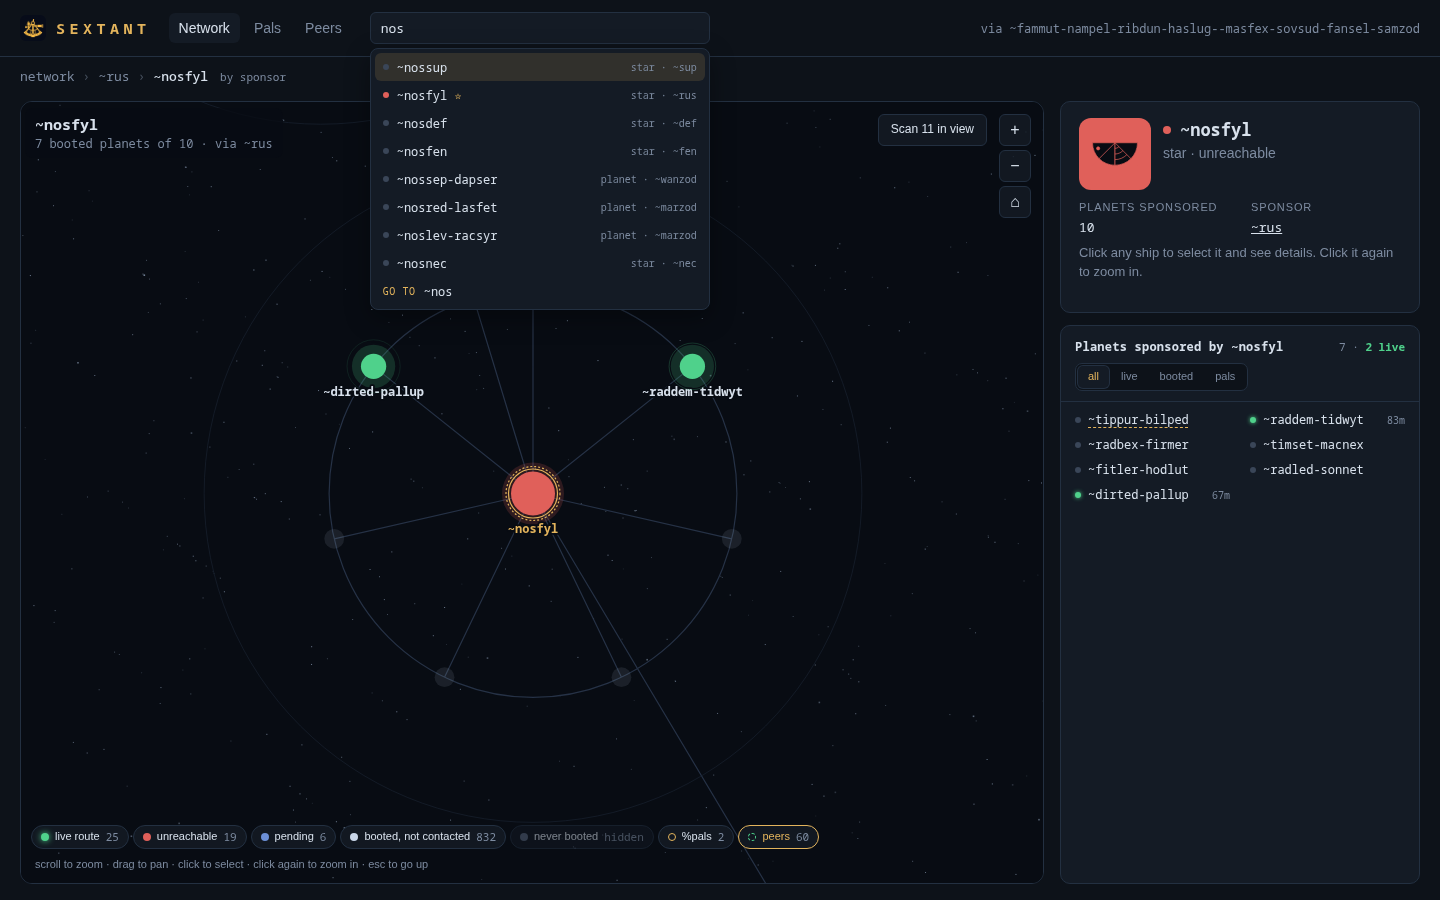
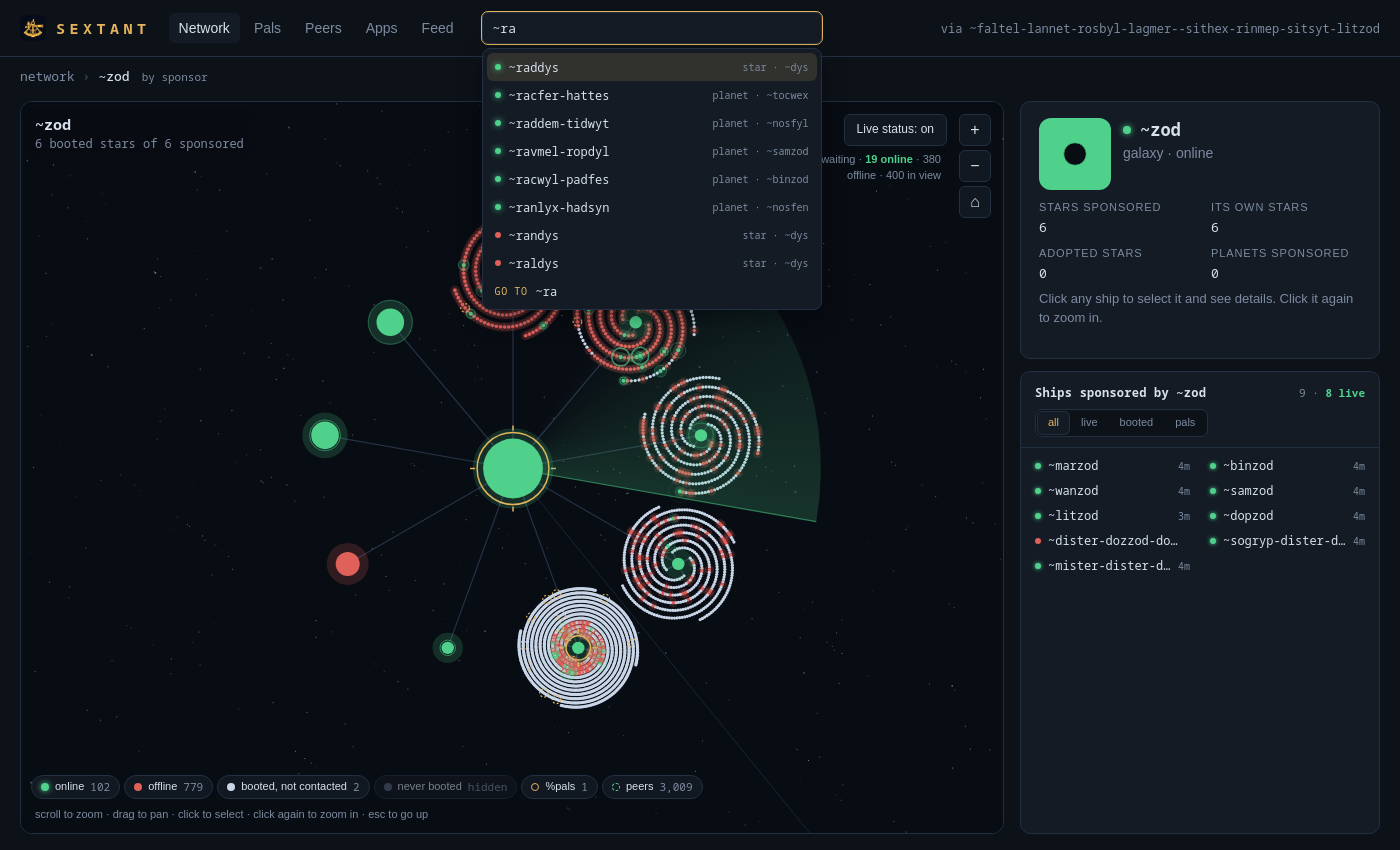
Sextant 1.1.0: README, screenshots, docket
Rewrites the README for live status, the radar, route tracer, Apps tab
and install gossip, moons, the Azimuth feed, owner view and watchlist,
with an updated API table and fresh screenshots. Includes fang-/suite's
MIT license for the vendored /lib/gossip. Docket 1.1.0.

diff --git a/README.md b/README.md
@@ -6,7 +6,8 @@
 
 <p align="center">
   A live map of the Urbit network for your ship.<br>
-  Every galaxy, star and planet, drawn under the ship that sponsors it <em>right now</em>.
+  Every galaxy, star, planet and known moon, drawn under the ship that sponsors it <em>right now</em>,<br>
+  with live status, route tracing, an Azimuth event feed, and the apps your pals use.
 </p>
 
 <p align="center">
@@ -20,36 +21,68 @@
 Sextant reads the Azimuth state your ship already keeps and draws the whole network as one zoomable chart:
 
 - **Galaxies** sit on a single Archimedean spiral, evenly spaced, with `~zod` at the centre.
-- **Zoom into a galaxy** to see the stars it currently sponsors. They wind into it on two, three or four spiral arms; a galaxy with only a few stars spreads them evenly on a circle.
+- **Zoom into a galaxy** to see the stars it currently sponsors, winding into it on two, three or four spiral arms. Their planets show up around them as you zoom, so you can see how busy each star's neighbourhood is.
 - **Zoom into a star** to see its planets, laid out the same way. Planets load from your ship only once you zoom close enough to see them.
-- **Ships are placed by sponsor, not by parent.** A star that escaped to another galaxy sits under its new sponsor and gets a dashed gold ring. `~rus`, for example, has adopted 25 stars from other galaxies.
-- **Colours are live** from your ship's own networking state: green is a live route, red is unreachable, blue is pending, white is booted but not contacted yet. Ships that were spawned but never booted are hidden by default (there's a toggle in the legend).
+- **Moons** your ship has talked to (including your own, which ping their planet) sit on spokes around their planet, star or galaxy.
+- **Ships are placed by sponsor, not by parent.** A star that escaped to another galaxy sits under its new sponsor and gets a dashed gold ring. **Pending escape requests** are drawn as dashed gold arcs to the sponsor they asked for.
+- **Names** stay off the map until you hover over a ship or select it.
 
 | A galaxy and the stars it sponsors | A star and its planets |
 |---|---|
 | ![~rus and its stars](docs/screenshots/galaxy.png) | ![~marzod and its planets](docs/screenshots/star.png) |
 
+### Live status
+
+Ames can't tell you who is online: it only learns about a ship when packets flow, and it marks any idle peer "dead" 30 seconds after the last one. So Sextant asks.
+
+- While the map is open, every booted ship on screen gets one small **remote-scry request** for the hash of its public `%kids` desk. Any answer means **online** (green); no answer within 20 seconds means **offline** (red), and the request is cancelled so nothing keeps retrying in ames.
+- A **radar sweep** turns over the galaxy or star in view while answers are pending, and each ship changes colour as the sweep line passes over it.
+- Each ship **keeps its last result** until the next check finishes, so a re-check never blanks the map.
+- It's polite about traffic: ships that answer are re-checked at most every 5 minutes; silent ones back off to 15 minutes, an hour, 6 hours, then once a day; and at most 50 requests are out at once. In the background only your pals, your watched ships and the galaxies are kept fresh. The **Live status** button on the map pauses it all.
+
 ### Ship details
 
 Click any ship to select it. Click it again to zoom in.
 
-- The ship's **sigil** sits on its status colour.
-- **Sponsor, parent, keys and escape requests**, plus owner and proxy addresses. Click an address to copy it, or use ↗ to open it on Etherscan.
-- **%pals:** see whether you're mutuals, whether they got your request, and add or remove them in one click.
-- **Check connection** runs a `%vitals` check, which tells you whether the ship is reachable and, if not, whether it's your side, theirs, or their sponsor's.
-- **Apps:** look up the desks a ship publishes (via `%treaty`, the same as searching it in Landscape) and install them from there.
+- Its **sigil** on its status colour, its sponsor, parent, keys and escape requests, and its owner and proxy addresses (copy, open on Etherscan, or **◎** to see everything that address controls).
+- **%pals:** whether you're mutuals, whether they got your request, and add or remove them in one click.
+- **☆ Watch:** get a Landscape notification when the ship stops answering, comes back, or changes on Azimuth. Watched ships are checked every 5 minutes and wear a small marker on the map.
+- **Trace route** (below).
+- **Check connection** runs a `%vitals` check for a full diagnosis.
+- **Apps:** the desks a ship publishes, via `%treaty`, with install buttons.
 
-| Selected ship | Apps it publishes |
+| Selected ship | Route trace |
 |---|---|
-| ![~raddem-tidwyt selected](docs/screenshots/ship.png) | ![apps published by ~paldev](docs/screenshots/apps.png) |
+| ![~raddem-tidwyt selected](docs/screenshots/ship.png) | ![a route traced to ~raddem-tidwyt](docs/screenshots/trace.png) |
 
-### Finding ships and who's online
+### Route tracer
 
-- **Search** suggests galaxies, stars, loaded planets, your pals and your peers as you type.
-- The **peers** layer keeps only the ships your ship has talked to, plus the galaxies and stars they live under.
-- **Live status.** Ames only updates what it knows about a ship when packets flow, and it marks any idle peer "dead" after 30 seconds of quiet, so its view can't say who is online. Sextant asks instead: while the map is open, every booted ship on screen (and, in the background, your pals and the galaxies) gets one small remote-scry request for the hash of its public `%kids` desk. Any answer means **online**; no answer within 20 seconds means **offline**, and the request is cancelled so nothing keeps retrying. Each ship keeps its last result until the next check finishes. Ships that answer are re-checked at most every 5 minutes; silent ones back off (15 minutes, then 1 hour, 6 hours, a day), since most are abandoned. At most 50 checks are out at once, and a radar sweep turns over the galaxy or star in view while they are. The **Live status** button on the map pauses it.
+**Trace route** follows the path a packet takes from you to a ship: up your sponsor chain to where it meets theirs, then down to them. It checks every hop at once and shows, for each one, whether it answered, its round trip, and whether your ship has a direct address for it, only reaches it through relays, or has no address at all (a galaxy with no DNS entry). The route is drawn on the map with a pulse running along the part that works, and the panel says where and why it breaks.
 
-![search and the peers layer](docs/screenshots/search.png)
+If a hop is silent but a ship behind it answered, that hop is up and has probably just never heard of your ship (common for brand-new comets). Sextant offers to **Say hi** to it, the same as `|hi`.
+
+### Apps on the network
+
+![the Apps tab](docs/screenshots/apps.png)
+
+The **Apps** tab lists every app your ship knows is published, from the publishers it follows through `%treaty`. Search them, filter by publisher, hide what you have, install with a click, or **add a publisher** by name to see what it offers.
+
+**Popular with your pals.** Like [`%hits`](https://github.com/iko-soy/hits), Sextant gossips installs: each app you installed *from a publisher* is one anonymous "hit", shared with your mutual pals who run Sextant and relayed one more hop to theirs (via [`/lib/gossip`](https://github.com/fang-/suite)). Each install carries a random id, so relayed copies count once and an uninstall takes its hit back. The Apps tab can then rank apps as **popular** (installs heard of nearby) or **trending** (each install counts half as much each day), and shows apps you only know about through pals. Desks you made yourself (`|new-desk`, or installed from a file) are never shared, and **share my installs** turns it off.
+
+### Azimuth feed and owners
+
+The **Feed** tab lists what `%azimuth` reports as it happens: breaches, first boots and key changes, escape requests and cancellations, completed escapes, transfers and moves to layer 2. New events also pop up on the map, and a completed escape glides the ship over to its new sponsor. The ships you watch are listed at the top.
+
+Click **◎** next to any address, or search for an `0x…` address, to see every point it owns or is a proxy for, and highlight them on the map.
+
+![the points one address controls](docs/screenshots/owner.png)
+
+### Finding ships
+
+- **Search** suggests galaxies, stars, loaded planets, your pals and your peers as you type, and accepts Ethereum addresses.
+- The **legend** filters the map by status, pals, or peers (the ships your ship has talked to, plus the galaxies and stars they live under).
+
+![search](docs/screenshots/search.png)
 
 ## Install
 
@@ -61,7 +94,7 @@ From your ship's dojo:
 
 Or search for `~nosfyl` in Landscape and install Sextant from there. Then open it from your Landscape home screen, or go to `/apps/sextant` on your ship.
 
-Sextant needs `%azimuth`, which every planet and star already runs. `%pals`, `%vitals` (part of Landscape) and `%treaty` are used if you have them.
+Sextant needs `%azimuth`, which every planet and star already runs. `%pals`, `%vitals`, `%treaty`, `%docket` and `%hark` (all part of a normal Landscape install) are used if you have them.
 
 ### Let others browse your map
 
@@ -71,23 +104,25 @@ By default only you (logged in) can see your Sextant. To let anyone view it read
 :sextant [%public &]
 ```
 
-Adding pals, connection checks, probes, app lookups and installs always need the owner's login.
+Adding pals, checks, traces, app lookups, installs, watching and sharing settings always need the owner's login.
 
 ## How it works
 
-Everything comes from your own ship's scries. Sextant doesn't call any outside services.
+Everything comes from your own ship. Sextant doesn't call any outside services.
 
 | Source | Used for |
 |---|---|
-| `%azimuth` | points, keys, sponsors and escape requests |
-| `%ames` | which ships your ship knows, and whether the route is live |
-| `%pals` | targets, leeches, and whether your requests were received |
-| `%vitals` | active connection checks |
-| `%treaty`, `%hood` | apps a ship publishes, and installing them |
+| `%azimuth` | points, keys, sponsors, escape requests, owners; the `/event` stream for the feed |
+| remote scry | live status: one cancellable request per ship for its `%kids` desk hash |
+| `%ames` | which ships and moons your ship knows, and how it reaches them (for the tracer) |
+| `%pals` + `/lib/gossip` | pals, and sharing app installs with mutuals and theirs |
+| `%treaty`, `%docket`, `%hood` | published apps, installed apps and their sources, installing |
+| `%hark` | notifications for watched ships |
+| `%vitals` | full connection diagnoses |
 
-The agent builds the full sponsorship tree (256 galaxies and every sponsored star, about 1.7 MB) on a five-minute timer and serves the cached copy, so the map opens instantly. A star's planets come from a separate request when you zoom in.
+The agent caches the full sponsorship tree (256 galaxies and every sponsored star, about 1.7 MB) and rebuilds it within a minute of anything changing, so the map opens instantly. A star's planets come from a separate request when you zoom in.
 
-**Layout.** Every level uses the same Archimedean spiral, r = bθ, with points at equal arc length. The gap between turns is a fixed multiple of the gap between neighbours, and it's solved so that N points exactly fill the disc. As a result, every ship sits the same distance from its neighbours along its arm and from the arms beside it. Each ship's children live in a disc just under half that spacing, so discs never overlap.
+**Layout.** Every level uses the same Archimedean spiral, r = bθ, with points at equal arc length. The gap between turns is a fixed multiple of the gap between neighbours, solved so that N points exactly fill the disc, so every ship sits the same distance from its neighbours along its arm and from the arms beside it. Each ship's children live in a disc just under half that spacing, so discs never overlap.
 
 ## API
 
@@ -99,10 +134,18 @@ All routes are under `/apps/sextant/api` and return JSON. Owner-only routes need
 | `GET /tree` | every galaxy and every sponsored star as compact rows (cached) |
 | `GET /ship/~p` | one point in detail: sponsor, chain, keys, proxies, pal receipt |
 | `GET /residents/~p` | ships `~p` sponsors, plus pending escape requests |
-| `GET /pals`, `GET /peers` | your pals; every ship your ship has talked to |
+| `GET /pals`, `GET /peers` | your pals; every ship (and moon) your ship has talked to |
+| `POST /status` | `["~zod", …]` → `{ship: [status, last, waiting]}`; the owner's reads also probe ships that are due |
+| `POST /trace/~p`, `GET /trace/~p` | probe every hop between you and `~p` (owner); the hops with status, round trip and address kind |
+| `POST /hi/~p` | say hi to `~p`, like `\|hi` (owner) |
+| `GET /catalog` | every known published app, the publishers you follow, and gossiped install counts |
 | `GET /apps/~p` | apps `~p` publishes, via `%treaty` |
-| `POST /apps/~p` | look `~p` up through `%treaty` (owner) |
+| `POST /apps/~p` | follow `~p` as a publisher through `%treaty` (owner) |
 | `POST /install/~p/desk` | install a desk from `~p` (owner) |
+| `POST /share/on`, `/share/off` | share your app installs with pals, or not (owner) |
+| `GET /events` | recent Azimuth events, newest first |
+| `GET /owner/0x…` | every point an address owns or is a proxy for |
+| `GET /watch`, `POST /watch/~p`, `DELETE /watch/~p` | watched ships; watch or unwatch (owner) |
 | `GET /ping/~p`, `POST /ping/~p` | latest `%vitals` result; start a check (owner) |
 | `POST /pal/~p`, `DELETE /pal/~p` | add or remove a pal (owner) |
 
@@ -110,7 +153,8 @@ All routes are under `/apps/sextant/api` and return JSON. Owner-only routes need
 
 ```
 desk/
-  app/sextant.hoon   agent: JSON API, HTTP serving, cached sponsorship tree
+  app/sextant.hoon   agent: JSON API, probes, gossip, feed, cached tree
+  lib/gossip.hoon    from fang-/suite (with lib/pals, sur/pals, lib/verb, sur/verb, mar/gossip)
   web/               index.html, app.js (canvas map), style.css, sigil.js, icon.png
   desk.docket-0      Landscape tile
 dev.sh               copy desk/ into a pier and |commit
@@ -139,7 +183,7 @@ To publish from your own ship, copy `desk/*` into `<pier>/sextant/`, then run:
 :treaty|publish %sextant
 ```
 
-`web/sigil.js` is [`@urbit/sigil-js`](https://github.com/urbit/sigil-js) 2.2.0 (MIT), vendored as a plain script.
+`web/sigil.js` is [`@urbit/sigil-js`](https://github.com/urbit/sigil-js) 2.2.0 (MIT), vendored as a plain script. `lib/gossip.hoon` and its dependencies are from [fang-/suite](https://github.com/fang-/suite) (MIT, see [licenses/](licenses/)).
 
 ## License
 
